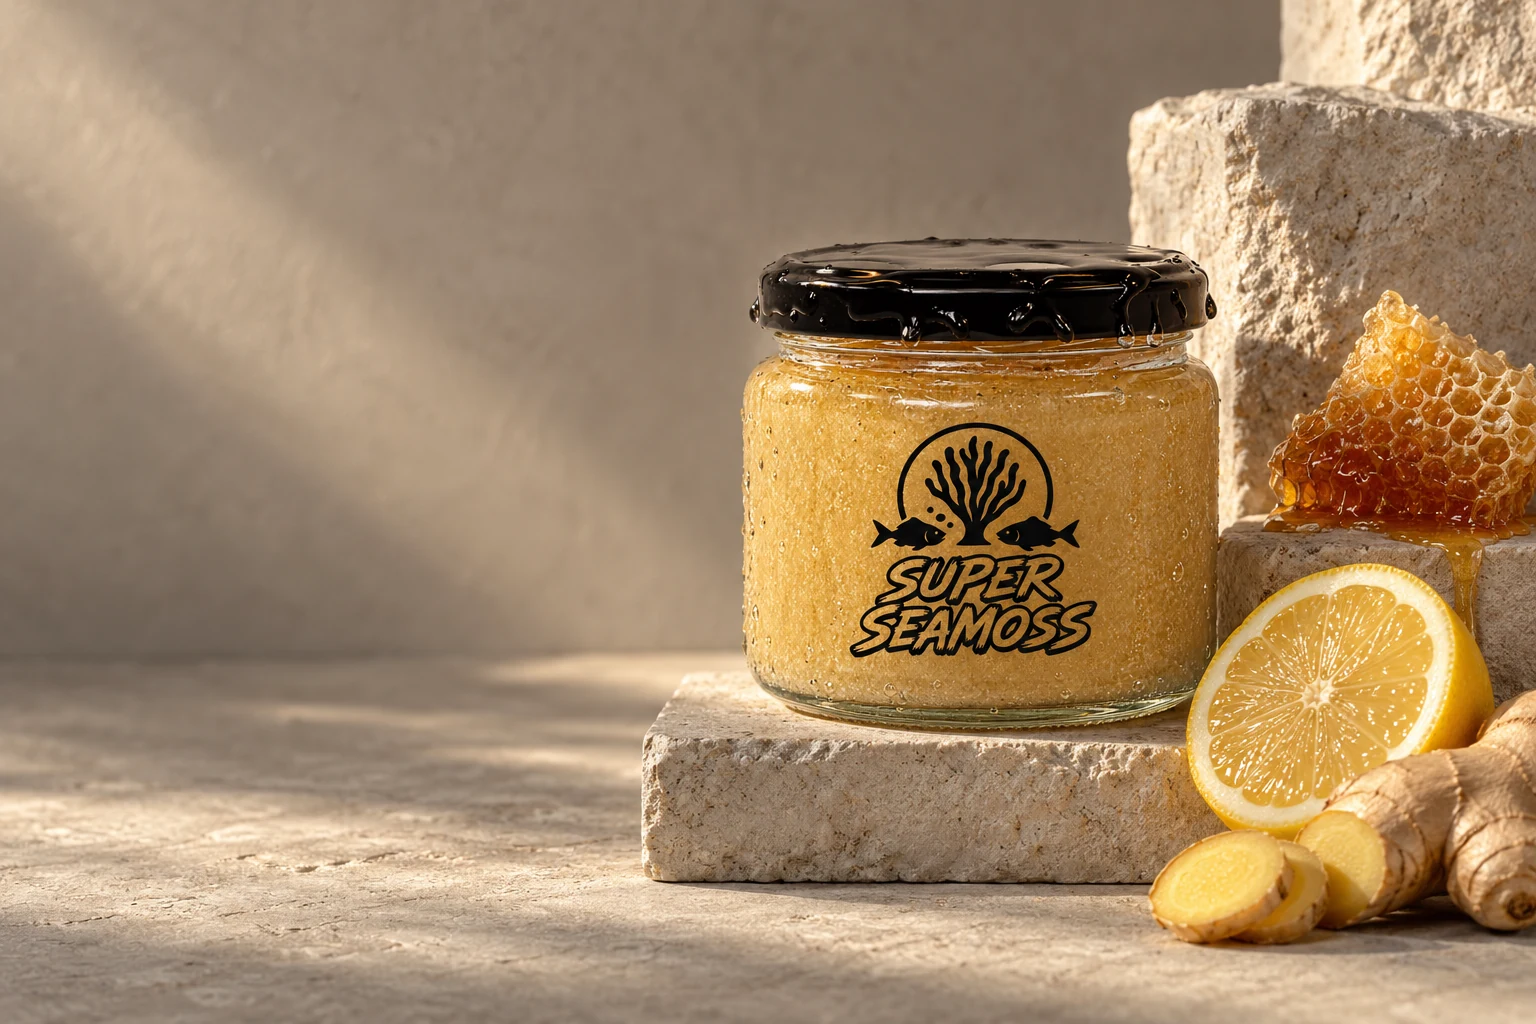
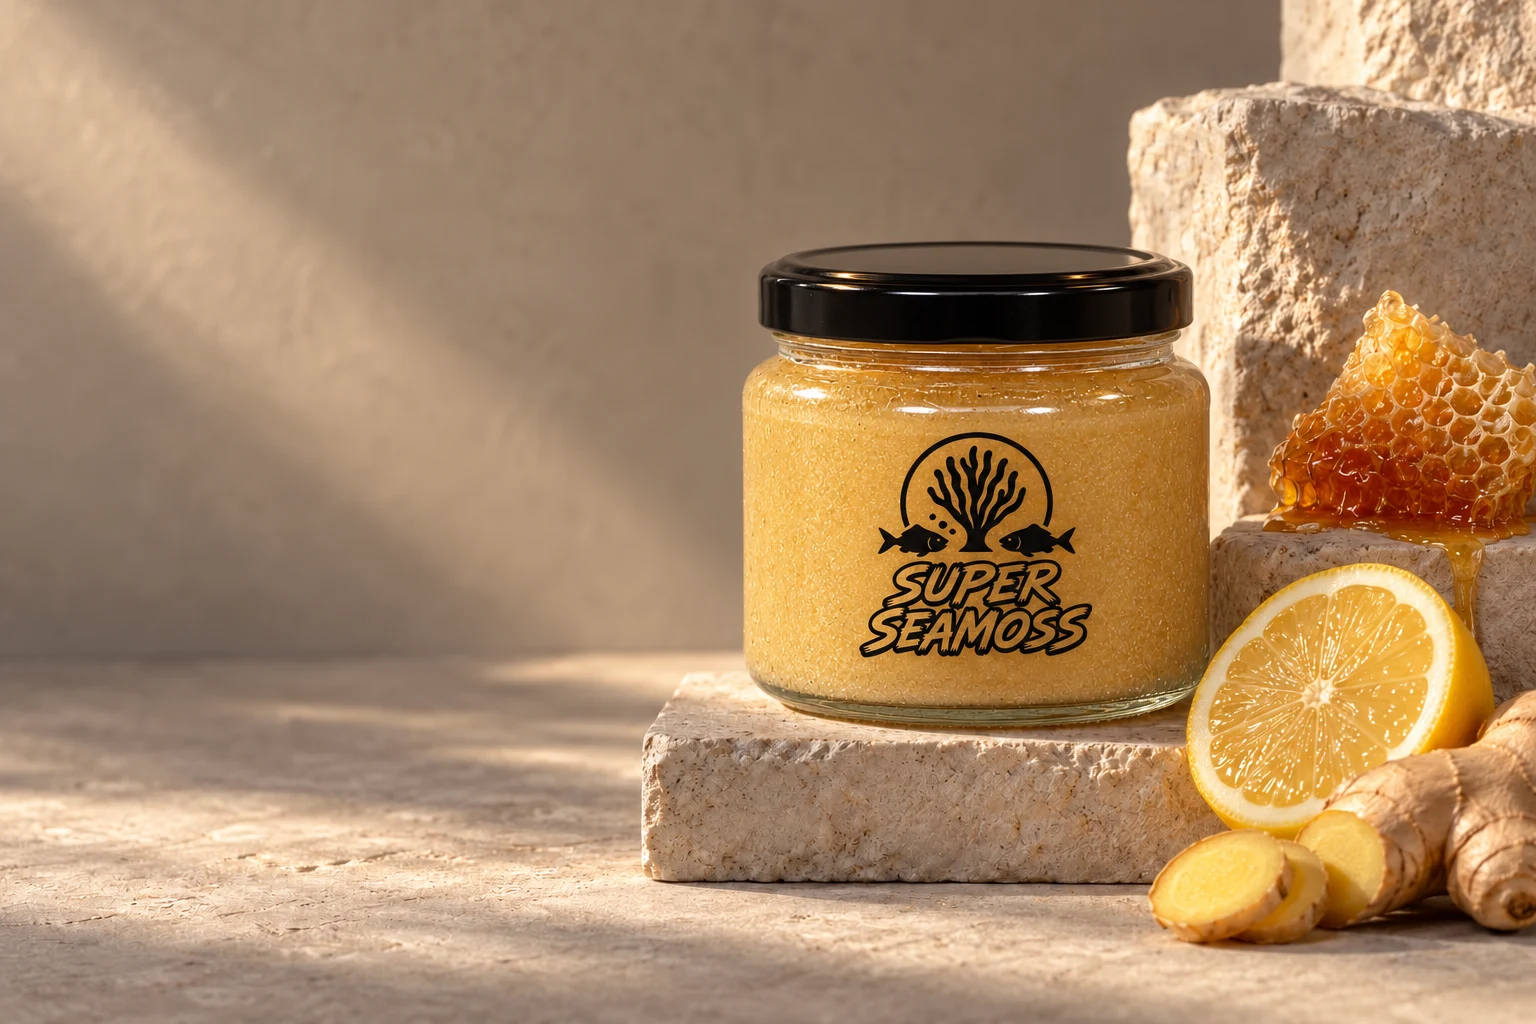
Match Seamoss jars and smooth lids to real packaging throughout site

Changed region(s): [[0.4062, 0.1562, 1.0, 0.875], [0.0, 0.8438, 0.5, 0.9062], [0.5312, 0.8125, 0.5625, 0.8438]]

diff --git a/superseamoss/index.html b/superseamoss/index.html
@@ -10,13 +10,13 @@
 <meta property="og:title" content="Super Seamoss | Sea moss for daily nourishment">
 <meta property="og:description" content="One sea moss foundation. Fifteen distinctive blends. Explore the collection and preview your jars with Super Seamoss.">
 <meta property="og:url" content="https://venturasolutions.co.uk/superseamoss/">
-<meta property="og:image" content="https://venturasolutions.co.uk/superseamoss/assets/blends/manuka-glow.webp">
+<meta property="og:image" content="https://venturasolutions.co.uk/superseamoss/assets/blends/manuka-glow.webp?v=real1">
 <meta name="twitter:card" content="summary_large_image">
 <link rel="icon" href="assets/favicon-fish-16.png" type="image/png" sizes="16x16">
 <link rel="apple-touch-icon" href="assets/favicon-fish-180.png" sizes="180x180">
 <link rel="icon" href="assets/favicon-fish-32.png" type="image/png" sizes="32x32">
 <link rel="preload" href="assets/bricolage-bold.woff2" as="font" type="font/woff2" crossorigin>
-<link rel="preload" href="assets/jar-sequence/poster.webp" as="image" fetchpriority="high">
+<link rel="preload" href="assets/real-jar/closed.webp?v=real1" as="image" fetchpriority="high">
 <link rel="stylesheet" href="styles.css?v=offers1">
 <script>
 document.documentElement.classList.add('page-loading');
@@ -25,9 +25,9 @@ setTimeout(() => {
   document.dispatchEvent(new Event('seamoss:load-timeout'));
 }, 6500);
 </script>
-<script src="loading.js?v=mobile2" defer></script><script src="site.js?v=feedback-lid2" defer></script><script src="jar-scroll.js?v=mobile2" defer></script><script type="module" src="order-options.js?v=feedback-fit3"></script>
-<link rel="stylesheet" href="blend-preview.css?v=feedback-fit3">
-<link rel="stylesheet" href="blend-picker.css?v=image-picker1">
+<script src="loading.js?v=mobile2" defer></script><script src="site.js?v=real1" defer></script><script src="jar-scroll.js?v=real1" defer></script><script type="module" src="order-options.js?v=real1"></script>
+<link rel="stylesheet" href="blend-preview.css?v=real1">
+<link rel="stylesheet" href="blend-picker.css?v=real1">
 </head>
 <body>
 <div class="page-loader" role="status" aria-label="Loading Super Seamoss">
@@ -48,7 +48,7 @@ setTimeout(() => {
 <section class="hero" aria-labelledby="hero-heading" data-mode="0">
 <h1 id="hero-heading"><span>Sea moss.</span><span class="second-line">Daily nourishment.</span></h1>
 <picture class="hero-backdrop" aria-hidden="true"><source media="(max-width: 700px)" srcset="assets/hero-background-768.webp"><img src="assets/hero-background.webp" alt="" width="1536" height="1024" fetchpriority="high"></picture>
-<div class="hero-scene"><div class="jar-shadow" aria-hidden="true"></div><div class="jar-float"><div class="jar-model" data-sequence="true" role="img" aria-label="Super Seamoss jar. Scroll to lift its black lid and reveal the golden sea moss gel."><img class="jar-poster" src="assets/jar-sequence/poster.webp" alt="" width="1254" height="1254" fetchpriority="high"><canvas class="jar-canvas" width="480" height="480" aria-hidden="true"></canvas></div></div></div>
+<div class="hero-scene"><div class="jar-shadow" aria-hidden="true"></div><div class="jar-float"><div class="jar-model" data-sequence="true" role="img" aria-label="Super Seamoss jar. Scroll to lift its smooth black lid and reveal the golden sea moss gel."><img class="jar-poster" src="assets/real-jar/closed.webp?v=real1" alt="" width="768" height="768" fetchpriority="high"><canvas class="jar-canvas" width="768" height="768" aria-hidden="true"></canvas></div></div></div>
 <div class="hero-note"><span class="tiny-label">YOUR DAILY FOUNDATION.</span><p>Sea moss gel.<br>Fruit, roots &amp; botanicals.<br>A blend for your day.</p></div>
 <div class="hero-bottom"><a class="scroll-link" href="#collection">SCROLL TO OPEN THE JAR</a><div class="hero-caption"><h2 id="mode-title">Sea moss, made for daily life.</h2><p id="mode-copy">A sea moss foundation. A blend with purpose.</p></div><button class="motion-toggle" aria-label="Pause animations" aria-pressed="false">Pause motion <span aria-hidden="true">Ⅱ</span></button></div>
 </section>
@@ -59,7 +59,7 @@ setTimeout(() => {
 <div class="blend-showcase">
 <div class="blend-panels">
 <article class="blend-panel" id="panel-manuka-glow" aria-labelledby="heading-manuka-glow">
-<img class="blend-scene" src="assets/blends/manuka-glow.webp" srcset="assets/blends/manuka-glow-768.webp 768w, assets/blends/manuka-glow.webp 1536w" sizes="100vw" alt="Golden sea moss jar with honeycomb and lemon on sculpted stone" width="1536" height="1024" loading="lazy" decoding="async">
+<img class="blend-scene" src="assets/blends/manuka-glow.webp?v=real1" srcset="assets/blends/manuka-glow-768.webp?v=real1 768w, assets/blends/manuka-glow.webp?v=real1 1536w" sizes="100vw" alt="Golden sea moss jar with honeycomb and lemon on sculpted stone" width="1536" height="1024" loading="lazy" decoding="async">
 <div class="blend-shade" aria-hidden="true"></div>
 <div class="blend-panel-copy">
 <p class="blend-focus">Glow &amp; radiance</p>
@@ -70,7 +70,7 @@ setTimeout(() => {
 <span class="blend-scene-signature" aria-hidden="true">YOUR DAY.<br>YOUR BLEND.</span>
 </article>
 <article class="blend-panel" id="panel-king-strength" aria-labelledby="heading-king-strength">
-<img class="blend-scene" src="assets/blends/king-strength.webp?v=smooth-lid2" srcset="assets/blends/king-strength-768.webp?v=smooth-lid2 768w, assets/blends/king-strength.webp?v=smooth-lid2 1536w" sizes="100vw" alt="Mango sea moss jar with fresh mango and reishi on sculpted stone" width="1536" height="1024" loading="lazy" decoding="async">
+<img class="blend-scene" src="assets/blends/king-strength.webp?v=real1" srcset="assets/blends/king-strength-768.webp?v=real1 768w, assets/blends/king-strength.webp?v=real1 1536w" sizes="100vw" alt="Mango sea moss jar with fresh mango and reishi on sculpted stone" width="1536" height="1024" loading="lazy" decoding="async">
 <div class="blend-shade" aria-hidden="true"></div>
 <div class="blend-panel-copy">
 <p class="blend-focus">Energy &amp; stamina</p>
@@ -81,7 +81,7 @@ setTimeout(() => {
 <span class="blend-scene-signature" aria-hidden="true">YOUR DAY.<br>YOUR BLEND.</span>
 </article>
 <article class="blend-panel" id="panel-power-up" aria-labelledby="heading-power-up">
-<img class="blend-scene" src="assets/blends/power-up.webp" srcset="assets/blends/power-up-768.webp 768w, assets/blends/power-up.webp 1536w" sizes="100vw" alt="Beetroot sea moss jar with beetroot, goji berries and cinnamon" width="1536" height="1024" loading="lazy" decoding="async">
+<img class="blend-scene" src="assets/blends/power-up.webp?v=real1" srcset="assets/blends/power-up-768.webp?v=real1 768w, assets/blends/power-up.webp?v=real1 1536w" sizes="100vw" alt="Beetroot sea moss jar with beetroot, goji berries and cinnamon" width="1536" height="1024" loading="lazy" decoding="async">
 <div class="blend-shade" aria-hidden="true"></div>
 <div class="blend-panel-copy">
 <p class="blend-focus">Energy &amp; focus</p>
@@ -92,7 +92,7 @@ setTimeout(() => {
 <span class="blend-scene-signature" aria-hidden="true">YOUR DAY.<br>YOUR BLEND.</span>
 </article>
 <article class="blend-panel" id="panel-rich-clarification" aria-labelledby="heading-rich-clarification">
-<img class="blend-scene" src="assets/blends/rich-clarification.webp" srcset="assets/blends/rich-clarification-768.webp 768w, assets/blends/rich-clarification.webp 1536w" sizes="100vw" alt="Date-brown sea moss jar with dates, cinnamon and lion’s mane" width="1536" height="1024" loading="lazy" decoding="async">
+<img class="blend-scene" src="assets/blends/rich-clarification.webp?v=real1" srcset="assets/blends/rich-clarification-768.webp?v=real1 768w, assets/blends/rich-clarification.webp?v=real1 1536w" sizes="100vw" alt="Date-brown sea moss jar with dates, cinnamon and lion’s mane" width="1536" height="1024" loading="lazy" decoding="async">
 <div class="blend-shade" aria-hidden="true"></div>
 <div class="blend-panel-copy">
 <p class="blend-focus">Focus &amp; clarity</p>
@@ -103,7 +103,7 @@ setTimeout(() => {
 <span class="blend-scene-signature" aria-hidden="true">YOUR DAY.<br>YOUR BLEND.</span>
 </article>
 <article class="blend-panel" id="panel-all-night-long" aria-labelledby="heading-all-night-long">
-<img class="blend-scene" src="assets/blends/all-night-long.webp" srcset="assets/blends/all-night-long-768.webp 768w, assets/blends/all-night-long.webp 1536w" sizes="100vw" alt="Warm beige sea moss jar with vanilla pods and roots in moonlit light" width="1536" height="1024" loading="lazy" decoding="async">
+<img class="blend-scene" src="assets/blends/all-night-long.webp?v=real1" srcset="assets/blends/all-night-long-768.webp?v=real1 768w, assets/blends/all-night-long.webp?v=real1 1536w" sizes="100vw" alt="Warm beige sea moss jar with vanilla pods and roots in moonlit light" width="1536" height="1024" loading="lazy" decoding="async">
 <div class="blend-shade" aria-hidden="true"></div>
 <div class="blend-panel-copy">
 <p class="blend-focus">Desire &amp; balance</p>
@@ -114,7 +114,7 @@ setTimeout(() => {
 <span class="blend-scene-signature" aria-hidden="true">YOUR DAY.<br>YOUR BLEND.</span>
 </article>
 <article class="blend-panel" id="panel-gut-health-booster" aria-labelledby="heading-gut-health-booster">
-<img class="blend-scene" src="assets/blends/gut-health-booster.webp" srcset="assets/blends/gut-health-booster-768.webp 768w, assets/blends/gut-health-booster.webp 1536w" sizes="100vw" alt="Turmeric-gold sea moss jar with ginger and sliced turmeric" width="1536" height="1024" loading="lazy" decoding="async">
+<img class="blend-scene" src="assets/blends/gut-health-booster.webp?v=real1" srcset="assets/blends/gut-health-booster-768.webp?v=real1 768w, assets/blends/gut-health-booster.webp?v=real1 1536w" sizes="100vw" alt="Turmeric-gold sea moss jar with ginger and sliced turmeric" width="1536" height="1024" loading="lazy" decoding="async">
 <div class="blend-shade" aria-hidden="true"></div>
 <div class="blend-panel-copy">
 <p class="blend-focus">Ginger &amp; turmeric</p>
@@ -179,7 +179,7 @@ setTimeout(() => {
 <div class="reveal"><h3>A purpose behind your pick.</h3><p>Fruit, roots and botanicals. Start with the flavours you enjoy, then compare the ingredients.</p></div>
 <div class="reveal"><h3>Consistency comes first.</h3><p>The Super Seamoss approach is a daily habit. Use your jar as directed and make it part of your day.</p></div>
 </div><a class="text-link" href="https://www.instagram.com/p/DST3aUQiD2K/" target="_blank" rel="noopener">The thinking behind every jar <span aria-hidden="true">+</span></a></div>
-<figure class="story-photo reveal"><div class="story-image"><img class="story-stage" src="assets/stage.webp" alt="" width="1536" height="1024" loading="lazy" decoding="async"><img class="story-jar" src="assets/jar-768.webp" alt="Super Seamoss jar on a wet grey stone podium surrounded by ice" width="1254" height="1254" loading="lazy" decoding="async"></div><figcaption><span>SEA MOSS AT THE FOUNDATION.</span><span>MADE FOR DAILY LIFE.</span></figcaption><div class="round-note" aria-hidden="true">Your day.<br>Your blend.<br>Your routine.</div></figure></div>
+<figure class="story-photo reveal"><div class="story-image"><img class="story-stage" src="assets/stage.webp" alt="" width="1536" height="1024" loading="lazy" decoding="async"><img class="story-jar" src="assets/real-jar/closed.webp?v=real1" alt="Super Seamoss jar on a wet grey stone podium surrounded by ice" width="768" height="768" loading="lazy" decoding="async"></div><figcaption><span>SEA MOSS AT THE FOUNDATION.</span><span>MADE FOR DAILY LIFE.</span></figcaption><div class="round-note" aria-hidden="true">Your day.<br>Your blend.<br>Your routine.</div></figure></div>
 </section>
 <section class="experience section-wrap" id="ritual" aria-labelledby="ritual-heading"><div class="experience-heading"><h2 class="display-heading reveal" id="ritual-heading">Your blend.<br>Your questions.<br><span>Let’s talk.</span></h2><div class="experience-intro reveal"><p>Choose your blends and jar size above. Send your priced enquiry to Super Seamoss on Instagram to confirm availability and dispatch.</p><a class="button button-dark" href="https://www.instagram.com/super.seamoss/" target="_blank" rel="noopener">Enquire on Instagram <span aria-hidden="true">+</span></a></div></div><div class="experience-steps"><article class="reveal"><span class="step-number">01</span><h3>Choose your blend.</h3><p>Pick the purpose that fits your day and check what’s in the jar.</p></article><article class="reveal"><span class="step-number">02</span><h3>Confirm the details.</h3><p>Ask about allergens, suitability, prices, availability and delivery.</p></article><article class="reveal"><span class="step-number">03</span><h3>Make it your routine.</h3><p>Follow your jar’s serving and storage guidance. Consistency is the idea.</p></article></div></section>
 <section class="faq-section section-wrap" id="questions" aria-labelledby="faq-heading"><div class="faq-heading reveal"><span class="tiny-label">BEFORE YOU ORDER</span><h2 id="faq-heading">Know your jar.</h2></div><div class="faq-list reveal">

diff --git a/superseamoss/jar-scroll.js b/superseamoss/jar-scroll.js
@@ -10,24 +10,27 @@
   }
 
   async function start() {
-    // Reserve the scroll distance before revealing the page, rather than shifting it later.
     track.classList.add('sequence-active');
-    const response = await fetch('assets/jar-sequence/frames.json');
-    if (!response.ok) throw new Error('Sequence unavailable');
-    const config = await response.json();
-    const frames = new Array(config.count);
     const canvas = model.querySelector('canvas');
-    canvas.width = config.width;
-    canvas.height = config.height;
+    canvas.width = canvas.height = 768;
     const context = canvas.getContext('2d');
-    let lastFrame = -1;
+    const assets = ['closed', 'open-body', 'lid'];
+    let prepared = 0;
+    const [closed, body, lid] = await Promise.all(assets.map(async name => {
+      const image = new Image();
+      image.decoding = 'async';
+      image.src = `assets/real-jar/${name}.webp?v=real1`;
+      await image.decode();
+      loading?.progress(++prepared, assets.length);
+      return image;
+    }));
+    let lastProgress = -1;
     let pending = 0;
     let startY = 0;
     let distance = 1;
     let measureNeeded = true;
     let visible = true;
     let stopped = false;
-
     const measure = () => {
       const bounds = track.getBoundingClientRect();
       startY = window.scrollY + bounds.top;
@@ -40,36 +43,33 @@
       if (measureNeeded) measure();
       if (!visible || document.hidden || document.body.classList.contains('paused')) return;
       const progress = Math.max(0, Math.min(1, (window.scrollY - startY) / distance));
-      const desired = Math.round(progress * (config.count - 1));
-      let index = desired;
-      if (!frames[index]) {
-        for (let offset = 1; offset < config.count; offset++) {
-          if (frames[desired - offset]) { index = desired - offset; break; }
-          if (frames[desired + offset]) { index = desired + offset; break; }
-        }
+      if (progress === lastProgress) return;
+      const eased = progress * progress * (3 - 2 * progress);
+      const scale = 1 - .24 * eased;
+      const lift = 200 * eased;
+      context.clearRect(0, 0, 768, 768);
+      context.save();
+      context.translate(384, 384 + 62 * eased);
+      context.scale(scale, scale);
+      context.translate(-384, -384);
+      // Both layers share the reference photograph's viewpoint and registration.
+      context.drawImage(body, 0, 0, 768, 768);
+      if (progress < .08) {
+        context.globalAlpha = 1 - progress / .08;
+        context.drawImage(closed, 0, 0, 768, 768);
+        context.globalAlpha = 1;
       }
-      if (!frames[index] || index === lastFrame) return;
-      context.clearRect(0, 0, config.width, config.height);
-      context.drawImage(frames[index], 0, 0, config.width, config.height);
-      lastFrame = index;
-      canvas.dataset.frame = String(index);
+      context.drawImage(lid, 0, -lift, 768, 768);
+      context.restore();
+      lastProgress = progress;
+      canvas.dataset.frame = String(Math.round(progress * 47));
+      canvas.dataset.progress = progress.toFixed(3);
       model.classList.add('frame-ready');
     };
     const schedule = () => {
       if (!stopped && !pending && visible) pending = requestAnimationFrame(render);
     };
-    const resize = () => { measureNeeded = true; schedule(); };
-    const load = async index => {
-      const image = new Image();
-      image.decoding = 'async';
-      image.src = 'assets/jar-sequence/' + String(index).padStart(3, '0') + '.webp';
-      await image.decode();
-      frames[index] = image;
-    };
-
-    await load(0);
-    loading?.progress(1, config.count);
-    schedule();
+    const resize = () => { measureNeeded = true; lastProgress = -1; schedule(); };
     addEventListener('scroll', schedule, { passive: true });
     document.addEventListener('seamoss:motion', schedule);
     document.addEventListener('visibilitychange', schedule);
@@ -93,21 +93,10 @@
       model.classList.remove('frame-ready');
     };
     reducedMotion.addEventListener('change', () => { if (reducedMotion.matches) stop(); }, { once: true });
-
-    // Decoding happens before the intro opens, not on the first fast swipe through the hero.
-    let next = 1;
-    let prepared = 1;
-    await Promise.all(Array.from({ length: 3 }, async () => {
-      while (next < config.count && !stopped) {
-        const index = next++;
-        try { await load(index); } catch { /* Keep the nearest available frame. */ }
-        loading?.progress(++prepared, config.count);
-      }
-    }));
     schedule();
   }
   start().catch(() => {
-    track.classList.remove('sequence-active');
-    model.classList.remove('frame-ready');
+    track?.classList.remove('sequence-active');
+    model?.classList.remove('frame-ready');
   }).finally(() => loading?.ready());
 })();

diff --git a/superseamoss/blend-picker.css b/superseamoss/blend-picker.css
@@ -11,7 +11,7 @@
 .blend-picker-track{display:flex;gap:12px;overflow-x:auto;overscroll-behavior-x:contain;scroll-snap-type:x mandatory;scroll-padding-inline:4px;padding:4px 4px 10px;scrollbar-width:thin;scrollbar-color:#7f8a713d transparent;-webkit-overflow-scrolling:touch;min-width:0}
 .blend-picker-choice{appearance:none;flex:0 0 122px;min-width:0;padding:0;border:0;background:transparent;font-family:inherit;color:var(--ink);cursor:pointer;scroll-snap-align:center;text-align:center}
 .blend-picker-frame{position:relative;display:block;aspect-ratio:1/1;border:2px solid transparent;border-radius:16px;padding:8px;background:#e9e4d957;transition:border-color 150ms ease-out,background-color 150ms ease-out}
-.blend-picker-photo{display:block;width:100%;height:100%;background-image:url('assets/preview/jars.webp');background-size:500% 300%;background-repeat:no-repeat;filter:drop-shadow(0 4px 4px #3026181c);transition:transform 160ms ease-out}
+.blend-picker-photo{display:block;width:100%;height:100%;background-image:url('assets/preview/jars-real.webp?v=real1');background-size:500% 300%;background-repeat:no-repeat;filter:drop-shadow(0 4px 4px #3026181c);transition:transform 160ms ease-out}
 .blend-picker-tick{position:absolute;top:5px;right:5px;display:flex;align-items:center;justify-content:center;width:19px;height:19px;border-radius:50%;background:#4e5a3e;color:#fffdf8;font-size:11px;font-weight:600;opacity:0}
 .blend-picker-choice[aria-checked=true] .blend-picker-frame{border-color:#4e5a3e;background:#e1e6d875}
 .blend-picker-choice[aria-checked=true] .blend-picker-tick{opacity:1}

diff --git a/superseamoss/site.js b/superseamoss/site.js
@@ -111,7 +111,7 @@
   document.addEventListener('keydown',event=> { if(event.key==='Escape'&&navigation.classList.contains('open')){closeMenu();menuButton.focus();} });
   document.querySelectorAll('[data-product]').forEach(button=>button.addEventListener('click',()=> {
     const product=products.find(item=>item.id===button.dataset.product);
-    const image=document.querySelector('#product-dialog-image');const version=product.id==='king-strength'?'?v=smooth-lid2':'';image.src='assets/blends/'+product.id+'.webp'+version;image.srcset='assets/blends/'+product.id+'-768.webp'+version+' 768w, assets/blends/'+product.id+'.webp'+version+' 1536w';image.sizes='(max-width: 700px) calc(100vw - 24px), 46vw';image.alt='Creative ingredient still life for Super Seamoss '+product.name;
+    const image=document.querySelector('#product-dialog-image');const version='?v=real1';image.src='assets/blends/'+product.id+'.webp'+version;image.srcset='assets/blends/'+product.id+'-768.webp'+version+' 768w, assets/blends/'+product.id+'.webp'+version+' 1536w';image.sizes='(max-width: 700px) calc(100vw - 24px), 46vw';image.alt='Creative ingredient still life for Super Seamoss '+product.name;
     document.querySelector('#product-dialog-title').textContent=product.name;
     document.querySelector('#product-dialog-description').textContent=product.description;
     document.querySelector('#product-dialog-ingredients').replaceChildren(...product.ingredients.map(ingredient=> { const item=document.createElement('li');item.textContent=ingredient;return item; }));

diff --git a/superseamoss/blend-preview.css b/superseamoss/blend-preview.css
@@ -9,8 +9,8 @@
 .blend-preview-stage:before{content:'';position:absolute;inset:9%;border-radius:50%;background:radial-gradient(circle,color-mix(in srgb,var(--blend-accent) 23%,transparent),transparent 68%);z-index:-1}
 .blend-preview-stage:after{content:'';position:absolute;left:28%;top:70%;width:44%;height:5%;border-radius:50%;background:radial-gradient(ellipse,#40312032,transparent 70%);z-index:0}
 .blend-preview-jar-wrap{position:absolute;left:27%;top:27%;width:46%;aspect-ratio:1;z-index:3;pointer-events:none}
-.blend-preview-jar{display:block;width:100%;height:100%;background:url('assets/jar-768.webp') center/contain no-repeat;filter:drop-shadow(0 7px 7px #2e271719)}
-.artwork-ready .blend-preview-jar{background-image:url('assets/preview/jars.webp');background-size:500% 300%}
+.blend-preview-jar{display:block;width:100%;height:100%;background:url('assets/real-jar/closed.webp?v=real1') center/contain no-repeat;filter:drop-shadow(0 7px 7px #2e271719)}
+.artwork-ready .blend-preview-jar{background-image:url('assets/preview/jars-real.webp?v=real1');background-size:500% 300%}
 .blend-preview-ingredients{position:absolute;inset:0;z-index:2;visibility:hidden}
 .artwork-ready .blend-preview-ingredients{visibility:visible}
 .blend-preview-stage:has(.blend-ingredient.is-named) .blend-preview-ingredients{z-index:4}

diff --git a/superseamoss/blend-preview.js b/superseamoss/blend-preview.js
@@ -178,7 +178,7 @@ export function createBlendPreview(form, selects) {
 
   function loadArtwork() {
     if (loading) return loading;
-    loading = Promise.all(['jars.webp', ...ingredients.map(item => `ingredients-fit/${item.id}.webp?v=fit3`)].map(async asset => {
+    loading = Promise.all(['jars-real.webp?v=real1', ...ingredients.map(item => `ingredients-fit/${item.id}.webp?v=fit3`)].map(async asset => {
       const image = new Image();
       image.src = new URL(`./assets/preview/${asset}`, import.meta.url).href;
       await image.decode();

diff --git a/superseamoss/order-options.js b/superseamoss/order-options.js
@@ -1,5 +1,5 @@
 import { offers, priceOrder, money } from './order-pricing.mjs?v=two-jars50';
-import { createBlendPreview } from './blend-preview.js?v=feedback-fit3';
+import { createBlendPreview } from './blend-preview.js?v=real1';
 import { createBlendPickers } from './blend-picker.js?v=image-picker1';
 
 const form = document.querySelector('.order-planner');
